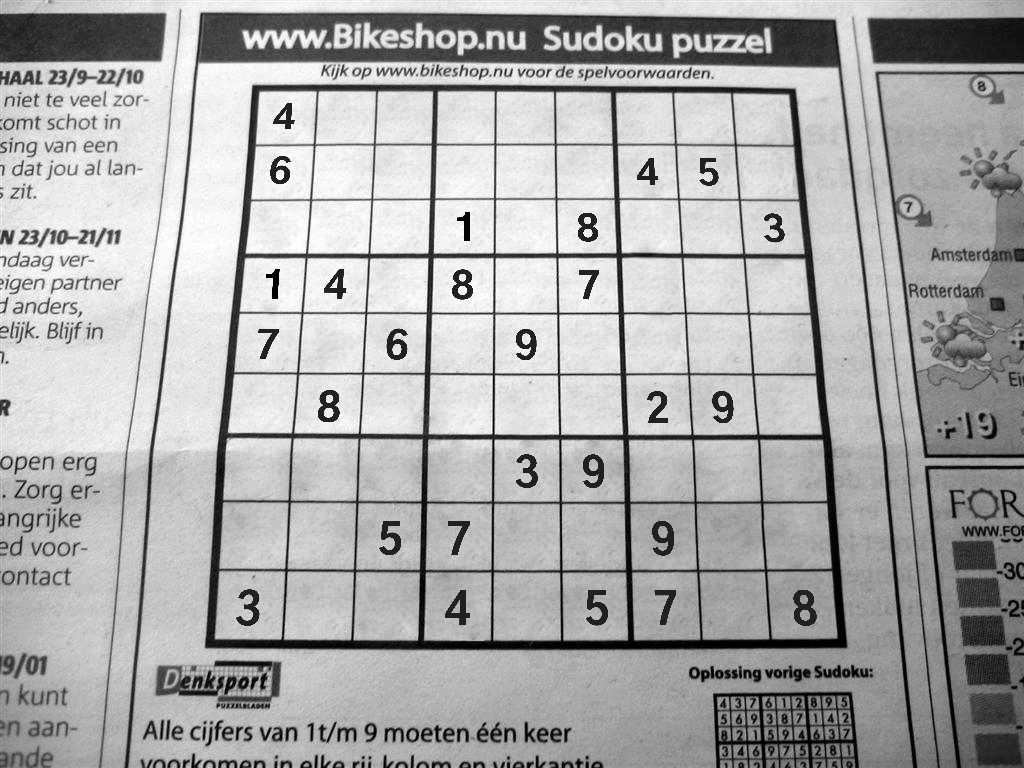
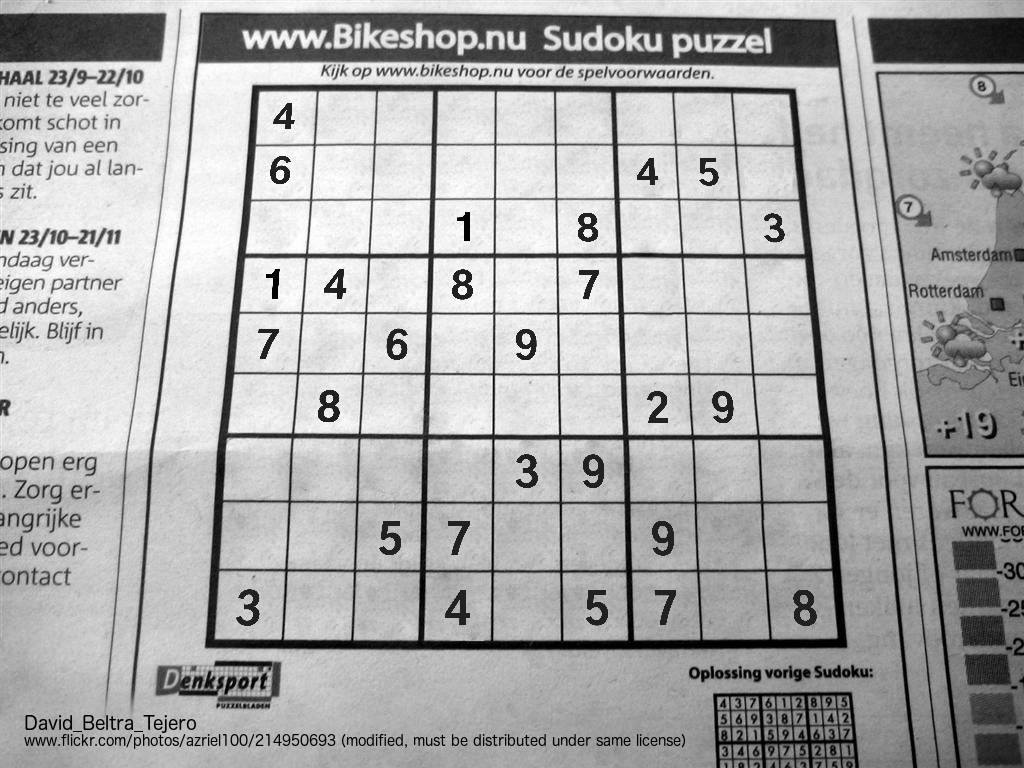
doen

Changed region(s): [[0.0, 0.8438, 0.6562, 1.0]]

diff --git a/gensudoku.py b/gensudoku.py
@@ -340,6 +340,3 @@ if __name__ == "__main__":
     creator = Creator(seed=args.seed)
     embedding = Embedding(chosen_template, creator).render(highlight_quadrangle=args.highlight_quadrangle).save(
         args.out_file)
-
-    cv2.imshow("hey", embedding.canvas)
-    cv2.waitKey(0)

diff --git a/README.md b/README.md
@@ -1,6 +1,6 @@
 # Sudoku Puzzle Generator 
 
-![Examples Banner](./examples/examples-banner.png)
+![Examples Banner](./examples/collage.png)
 
 ## My Mother is a Sudoku Enthusiast
 
@@ -31,27 +31,27 @@ The generated Sudoku image will appear relative to your working directory.
 
 ![Newspaper Example Sudoku](./examples/newspaper-example-sudoku.png)
 
-This Sudoku was generated in the format of said newspaper. 
+These Sudokus were generated in the format of aforementioned newspaper. 
 Find the template in `templates/newspaper`. 
 
 ![Book Example Sudoku](./examples/book-example-sudoku.png)
 
-This template is derived from a [picture](https://www.flickr.com/photos/johnjack/4264107415) by [Random McRandomhead](https://www.flickr.com/photos/johnjack) that I found on Flickr. 
-Find the template in `templates/book`. 
-
-![Book Example Sudoku (2)](./examples/book-2-example-sudoku.png)
-
-Another template derived from a [picture](https://flickr.com/photos/keltikee/3466731534) that I found on Flickr, this time by [Mevout](https://flickr.com/photos/keltikee). 
-Find the template in `templates/book-2`. 
+Results can be more artistic. 
+This example is derived from a [photo](https://flickr.com/photos/keltikee/3466731534) by [Mevout](https://flickr.com/photos/keltikee) that I found on Flickr. 
+Find the corresponding template in `templates/book`. 
 
 ![Newspaper Example Sudoku (2)](./examples/newspaper-2-example-sudoku.png)
 
-Another [picture](https://flickr.com/photos/azriel100/214950693) found on Flickr, this time by [David_Beltra_Tejero](https://flickr.com/photos/azriel100/). 
+Another [photo](https://flickr.com/photos/azriel100/214950693) from Flickr, this time by [David_Beltra_Tejero](https://flickr.com/photos/azriel100/), let to the template `templates/newspaper-2`. 
+
+![Book Example Sudoku (2)](./examples/book-2-example-sudoku.png)
+
+The third and last Flickr-based template was derived from a [photo](https://www.flickr.com/photos/johnjack/4264107415) by [Random McRandomhead](https://www.flickr.com/photos/johnjack). 
+Find the template in `templates/book-2`. 
 
 ![Plain Example Sudoku](./examples/plain-example-sudoku.png)
 
-A plain template for those who just want to generate Sudoku puzzles. 
-For this result, use the provided template `templates/plain`.
+And for those of you who want no more that a plain Sudoku puzzle, there is also the minimalistic template `templates/plain`.
 
 
  
